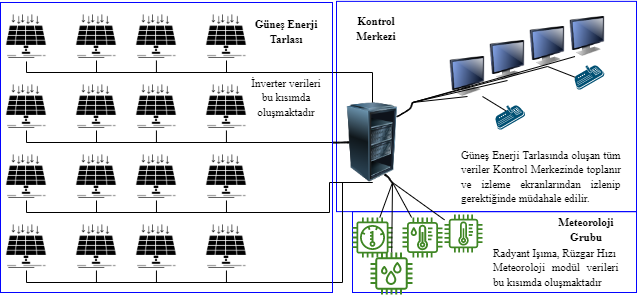
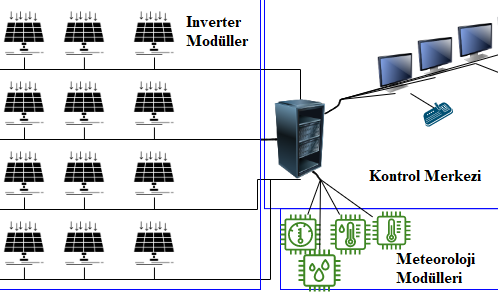
grafiklerin y koordinatlarını okunur bir biçimde düzenledim

diff --git a/MetinKisim/Bolum1.tex b/MetinKisim/Bolum1.tex
@@ -4,18 +4,20 @@
 \newpage
 \section{HABERLEŞME TEKNOLOJİLERINE GENEL BAKIŞ} \label{girisHaberlesme}
 \subsection{Power Line Communication, Güç Hattı Üzerinden Haberleşme}
-Güç Hattı Üzerinden Haberleşme (PLC), güç dağıtımı için kullnılan iletkenlerin aynı zamanda veri taşıma için de kullanılmasını amaçlayan bir haberleşme sistemidir. Güç hattına bağlanan modülatör ve demodülatör sayesinde enerjinin taşındığı hat üzerinden veri gönderimi sağlanmaktadır. Bu tekniği kullanımından kaynaklanan tek maliyet, fiziksel bağlantı olarak kullanılan sinyal aktarım ve sinyal tekrarlayıcı ekipmanlarıdır.
 
-\gls{plc} için ayrılan frekans bandgenişliği, 64 kb/s veya 4 kHz olarak tanımlanmıştır. Daha yüksek bir frekans kullanıldığında, \gls{plc} iletişimi daha küçük bir hat endüktansı gerektirecektir; dolayısıyla iletişim maliyeti azalacaktır. Bununla birlikte, daha yüksek frekans, iletişim aralığını sınırlayan daha yüksek sinyal zayıflamasına neden olacaktır. Pratikte maksimum mesafeler birkaç yüz kilometredir. Daha uzun mesafeli iletişim gerekli olduğunda, iletim sinyalini yükseltmek için \gls{plc} güçlendirme terminalleri kullanılmaktadır.
 
-Enerji dağıtım ağları üzerinden \gls{plc} kullanmanın ana dezavantajı, yer üstü hattan yeraltı hattına geçişten veya bunun tersi durumundan kaynaklanan empedans uyumsuzluğudur. Birden fazla geçiş olması durumunda, geçişlerden kaynaklanan empedans uyumsuzluklarının neden olduğu yansımalar iletişimin kalitesini olumsuz yönde etkileyecektir. Empedans uyumsuzluğun etkisini azaltmak için her geçişte ek ekipman kurulması gerekir. Bu nedenle, \gls{plc} uygulanmadan önce, enerji hattı geçişlerini belirlemek için enerji dağıtım ağının empedans uyum analizi yapılmalıdır\cite{duluau2015scada}.
+\gls{plc}, güç dağıtımı için kullanılan iletkenlerin aynı zamanda veri taşıma için kullanılmasını amaçlayan bir haberleşme sistemidir. Modülatör ve demodülatör kullanılarak, enerjinin taşındığı hat üzerinden veri gönderimi sağlanır. Bu tekniğin kullanımı için gerekecek tek maliyet, fiziksel bağlantı olarak kullanılan sinyal aktarım ve sinyal tekrarlayıcı ekipmanlarıdır.
+
+PLC için ayrılan frekans bant genişliği, 64 kb/s veya 4 kHz olarak tanımlanmıştır. Daha yüksek bir frekans kullanıldığında, \gls{plc} iletişimi daha küçük bir hat endüktansı gerektirecektir; dolayısıyla iletişim maliyeti azalacaktır. Bununla birlikte, daha yüksek frekans, iletişim aralığını sınırlayan daha yüksek sinyal zayıflamasına neden olacaktır. Pratikte maksimum mesafeler birkaç yüz kilometredir. Uzun mesafeli iletişim için, iletim sinyalini yükselten \gls{plc} güçlendirme terminalleri kullanılmaktadır.
+
+Enerji dağıtım ağları üzerinden \gls{plc}'nin en büyük problemi, yer üstü hattan yeraltı hattına geçişten veya bunun tersi durumundan kaynaklanan empedans uyumsuzluğudur. Birden fazla geçiş olması durumunda, geçişlerden kaynaklanan uyumsuzluklarının neden olduğu yansımalar iletişim kalitesini olumsuz yönde etkiler. Empedans uyumsuzluğun etkisini azaltmak için her geçişte ek ekipman kurulması gerekir. Bu nedenle, \gls{plc} uygulanmadan önce, enerji hattı geçişlerini belirlemek için enerji dağıtım ağının empedans uyum analizi yapılmalıdır\cite{duluau2015scada}.
 \begin{comment}
 \subsection{Radyo Dalgası}
 Özellikle yenilenebilir enerji santrallerinin dağıtık kurulumundan kaynaklı, üre-tilen enerjinin merkeziyetçil kontrolü için bakır tel veya fiber optik kullanımı, kabloları döşemek ve güzergah için yapılacak altyapı işleri yüksek maliyetler gerektirmektedir. Radyo iletişimi kablolu haberleşme sistemlerinin getirmiş olduğu bant genişliğinin yerini almasa da radyo ağlarının güvenilirliği, performansı ve işletme maliyetleri son yıllarda önemli ölçüde artmıştır. Bu gelişmelerde kaynaklı olarak dağıtık enerji sistemlerinde tercih edilen bir haberleşme teknolojisidir\cite{bai2020radio}.
 \end{comment}
 
 \subsection{Mikrodalga Haberleşmesi} \label{mikrohaberlesme}
-1 GHz üzerindeki frekanslarda çalışan, yüksek kanal ve veri iletimi kapasitelerini sunan radyo sistemlerini ifade eder. Mikrodalga haberleşmesi, kablolu haberleşme tekno-lojilerine alternatif olarak kullanılan uzun mesafeli iletişim sistemlerinde yaygın olarak kullanılmaktadır. Parabolik antenler, onlarca kilometre uzaktaki başka bir antene ışın göndermek için kulelere montajlanabilir. Mikrodalga haberleşmesi sayesinde 200 Mbps veri hızına kadar bant genişliği sunar. Bununla birlikte, bir mikrodalga radyo üzerinden iletim kapasitesi, kullanılan radyo frekansı ile doğru, iletim mesafesiyle ters orantılır. Ek olarak, mikrodalga haberleşmesi için açık görüş hattı önemlidir. Uzun mesafeli iletişim durumunda, mikrodalga haberleşme sisteminin en yüksek maliyeti kule kurulumu olarak değerlendirilir\cite{misra2012radio}.
+1 GHz üzerindeki frekanslarda çalışan, yüksek kanal ve veri iletimi kapasitelerini sunan radyo sistemlerini ifade eder. Mikrodalga haberleşmesi, kablolu haberleşme tekno-lojilerine alternatif olarak kullanılan uzun mesafeli iletişim sistemlerinde yaygın olarak tercih edilmektedir. Parabolik antenler, onlarca kilometre uzaktaki başka bir antene ışın göndermek için kulelere montajlanabilir. Mikrodalga haberleşmesi sayesinde 200 Mbps veri hızına kadar bant genişliği sunar. Bununla birlikte, bir mikrodalga radyo üzerinden iletim kapasitesi, kullanılan radyo frekansı ile doğru, iletim mesafesiyle ters orantılır. Ek olarak, mikrodalga haberleşmesi için açık görüş hattı önemlidir. Uzun mesafeli iletişim durumunda, mikrodalga haberleşme sisteminin en yüksek maliyeti kule kurulumu olarak değerlendirilir\cite{misra2012radio}.
 
 \begin{comment}
 \subsection{Ultra Yüksek Frekans Haberleşmesi}

diff --git a/OnKisim/5Ozet.tex b/OnKisim/5Ozet.tex
@@ -17,13 +17,41 @@
 \vspace{.5 cm}
 \onehalfspacing
 
+
+Bilginin bir noktadan başka bir noktaya veya noktalara aktarımında haberleşme sistemi kullanılır. Böylece bilgiyi üreten yapı hakkında oluşabilecek arıza durumlarının önüne geçilebilen bir ikaz sistemi kurularak, ilgili yapının çalışmasında sürdürülebilirlik sağlanmış olur.
+
+Yenilenebilir enerji santralleri, dağıtık enerji sistemleri olarak değerlendirilir. Enerji verimleri, konvansiyonel enerji santrallerine göre düşük, arıza müdahalesinden kaynaklı maliyetleri fazladır. Yenilenebilir enerji santrallerine yapılacak yatırımın cazip olması için, enerji üretim maliyetini minimize edecek çözümlere ağırlık verilmesi gerekmektedir. Haberleşme sistemleri sayesinde, yenilenebilir enerji sistemlerindeki muhtemel arızalar için zamanında aksiyon alınarak, enerji üretim maliyetinin düşürülmesi sağlanır. 
+
+
+Bu yüksek lisans tezinde, dağıtık yenilenebilir enerji üretim sistemlerinin üretim maliyetlerini minimize edebilmek için; kolayca ölçeklenebilir, geleneksel haberleşme sistemlerine göre yatırım maliyeti düşük ve düşük gecikme değerleriyle sürekli olarak müdahale edilebilir bir yapıyı destekleyecek haberleşme ağları araştırılmıştır. \gls{iec} ve \gls{ieee} tarafından belirlenen haberleşme standartları incelenmiştir. Yenilenebilir enerji santralleri hakkında temel anlamda çalışma prensipleri incelenmiştir. Kütahya Dumlupınar Üniversitesi bünyesinde dağıtık yenilenebilir enerji sistemleri kurulması durumunda haberleşme ihtiyacının çözümü için ağ tasarımları yapılmıştır. Tasarlanan ağların haberleşme performansları, yatırım maliyetleri ve \gls{iec} ve \gls{ieee} tarafından belirlenen haberleşme standartlarına uyumluluğu değerlendirilmiştir. 
+
+
+\begin{comment}
+
+
 Dağıtık yenilenebilir enerji üretim sistemleri başlığında değerlendirilen rüzgar ve güneş enerji santrallerinin bir arıza durumunda oluşturdukları maliyetleri düşürmek ve üretilen enerjilerin verimlerini arttırmak için gerçek zamanlı olarak takiplerinin yapılması elzem bir durumdur. Yenilenebilir enerji santrallerinde kullanılan haberleşme sistemlerinin standartları \gls{iec} ve \gls{ieee} tarafından belirlenmiştir.
 Bu yüksek lisans tezinde ilgili standartlara bağlı kalarak \gls{dpu} bünyesinde dağıtık yenilenebilir enerji sistemleri kurulması durumunda gereken haberleşme ağı tasarımları yapılıp ve maliyetleri analizlenmiştir.
 
-\begin{comment}
-Bu yüksek lisans çalışmasında, dağıtık yenilenebilir enerji üretim sistemlerindeki sensör verilerinin merkezden gerçek zamanlı olarak incelenebilinmesi ve ilgili haberleşme standartlarının sağlandığı ağ
+
+Günümüzde, artan enerji ihtiyaçlarının karşılanması konusunda insanlar dünyaya daha az zarar vererek enerji üretme konusuna ağırlık verdiler. Bu sebeple ülkeler yenilenebilir enerji kaynaklarını, fosil kaynaklara tercih etmeye başlamışlardır.
+
+Yenilenebilir enerji santrallerinin doğası gereği dağıtık yapıda olmasından kaynaklı olarak bakım, onarım ve arıza müdahalelerinden kaynaklı maliyetleri fazladır. Yenilenebilir enerji kaynaklarından elde edilen enerjinin verimi henüz fosil yakıtlardan elde edilen enerji veriminden az olduğundan, enerji üretiminde yatırımsal anlamda maliyetlerin azaltıcı aksiyonların alınması elzemdir. Santraldeki yaşanması muhtemel arızaların önüne geçebilmek için santral içerisindeki donanımların faaliyetlerini gerçek zamanlı izlemek gerekmektedir. Bu sebeple haberleşme sistemlerinin yenilenebilir enerji santrallerindeki önemli büyüktür. 
+
+Tüm sektörlerde olduğu gibi enerji sektöründe de teknolojik gelişmeler yaşan-maktadır. Haberleşme sistemlerindeki teknolojik gelişmelerin enerji sistemlerine uyarlanması sonucunda bakım, onarım ve enerji verimi faaliyetlerinin oluşturacağı maliyetlerin düşürülmesi amaçlanarak bu tez hazırlanmıştır.
+
+
+
+
+
+
+
+
 
 \end{comment}
+
+
+
+
 
 \textbf{Anahtar Kelimeler: } Optik Haberleşme, Wimax, Wifi, Haberleşme Ağları, Eniyileme, Yenilenebilir Enerji 
 

diff --git a/MetinKisim/Bolum5.tex b/MetinKisim/Bolum5.tex
@@ -9,7 +9,7 @@
 \subsection{OPNET Yerel Ağ Tasarımı} \label{opnetges}
 
 \begin{figure}[htbp]
-\centerline{\includegraphics[width=\columnwidth]{Resim/PV-2.png}}
+\centerline{\includegraphics[width=12cm]{Resim/PV-2.png}}
 \caption{Güneş enerji sistemi haberleşme topolojisi}
 \label{fig:4-6}
 \end{figure}
@@ -22,18 +22,18 @@
 \paragraph{Güneş Enerji Sistemi \gls{lan} Tasarımı }
 
 \begin{figure}[htbp]
-\centerline{\includegraphics[width=\columnwidth]{Resim/Sekil4-7.jpg}}
+\centerline{\includegraphics[width=11cm]{Resim/Sekil4-7.jpg}}
 \caption{Altıntaş \gls{myo}'nun OPNET yazılımda tasarım topolojisi.}
 \label{fig:4-7}
 \end{figure}
 
-Bölüm \ref{opnetges}'deki ilgili tabloda güneş enerji sisteminde kullanılan algılayıcılara göre OPNET yazılımında oluşturulan ağın görseli Şekil \ref{fig:figure9}'dedir. İlgili ağ yapısının tasarımı için OPNET yazılımında seçilmiş Ethernet algılayıcı düğümünün detayı şekil \ref{fig:4-9}’da gösterilmiştir. Bölüm \ref{algilayicidugum}'de tanımlanan Ethernet düğüm modülü ile OPNET yazılımında düğüm modülü uyumluluk göstermektedir.
+Bölüm \ref{opnetges}'deki ilgili tabloda güneş enerji sisteminde kullanılan algılayıcılara göre OPNET yazılımında oluşturulan ağın görseli Şekil \ref{fig:figure9}'de, ethernet algılayıcı düğüm detayı şekil \ref{fig:4-9}’da gösterilmiştir. Bölüm \ref{algilayicidugum}'de tanımlanan Ethernet düğüm modülü ile OPNET yazılımında düğüm modülü uyumluluk göstermektedir.
 
 Yerel enerji üretim durumunu kontrol edebilmek için komuta kontrol merkezi ile enerji üretim sisteminin haberleşme gecikmesinin 1 saniyenin altında olması ve paket trafiğinin minimum gecikmeyle komuta merkezine aktarılması gerektiği \gls{iec} 61724 standardının temel kriteridir. Bu kritere göre tasarlanan topolojide gözlemlenen performans değerleri Şekil \ref{fig:4-10}--\ref{fig:4-12}’lerde paylaşılmıştır.
 
 
 \begin{figure}[htbp]
-\centerline{\includegraphics[width=10cm]{Resim/Sekil 4-8.png}}
+\centerline{\includegraphics[width=13cm]{Resim/mak2solar.png}}
 \caption{Kampüs ortamında kurulan örnek güneş enerji santralinin invertör dizi grubunun OPNET yazılımında tasarlanması.}
 \label{fig:4-8}
 \end{figure}
@@ -253,8 +253,13 @@ ylabel={Yüklenen Veri Boyutu (Byte/s)},
 xmode=normal, ymode=log, 
 grid = major,
 log ticks with fixed point,
-ytick={15004,14004,8000,11008,12010,2006,8006,12016,6004},
+ytick={14004,8000,11008,2006,6004},
+extra y ticks={15004,12016},
+extra y tick labels={15\textbf{,}000,12\textbf{,}000},
+extra y tick style={y tick label style={right, xshift=6.8cm}},
 transpose legend,
+%label style = {font=\tiny},
+ytick style = {font=\tiny},
 legend columns = 3,
 legend style = {font=\tiny,at={(1,0.3)}, anchor=east}
 ]

diff --git a/OnKisim/7Onsoz.tex b/OnKisim/7Onsoz.tex
@@ -1,10 +1,5 @@
 \chapter*{ÖNSÖZ}
 
 
-Günümüzde, artan enerji ihtiyaçlarının karşılanması konusunda insanlar dünyaya daha az zarar vererek enerji üretme konusuna ağırlık verdiler. Bu sebeple ülkeler yenilenebilir enerji kaynaklarını, fosil kaynaklara tercih etmeye başlamışlardır.
 
-Yenilenebilir enerji santrallerinin doğası gereği dağıtık yapıda olmasından kaynaklı olarak bakım, onarım ve arıza müdahalelerinden kaynaklı maliyetleri fazladır. Yenilenebilir enerji kaynaklarından elde edilen enerjinin verimi henüz fosil yakıtlardan elde edilen enerji veriminden az olduğundan, enerji üretiminde yatırımsal anlamda maliyetlerin azaltıcı aksiyonların alınması elzemdir. Santraldeki yaşanması muhtemel arızaların önüne geçebilmek için santral içerisindeki donanımların faaliyetlerini gerçek zamanlı izlemek gerekmektedir. Bu sebeple haberleşme sistemlerinin yenilenebilir enerji santrallerindeki önemli büyüktür. 
-
-Tüm sektörlerde olduğu gibi enerji sektöründe de teknolojik gelişmeler yaşan-maktadır. Haberleşme sistemlerindeki teknolojik gelişmelerin enerji sistemlerine uyarlanması sonucunda bakım, onarım ve enerji verimi faaliyetlerinin oluşturacağı maliyetlerin düşürülmesi amaçlanarak bu tez hazırlanmıştır.
-
-Bana daima cesaret veren, inancını ve desteğini hissettiren, araştırmalarıma yön verip değerli fikirleriyle yanımda olan sayın danışmanım Prof. Dr. Ahmet Altuncu'ya teşekkürlerimi sunarım.
+Yüksek lisans süresi boyunca tez danışmanlığımı üstlenerek, konu seçiminde ve çalışmalarımın yürütülmesinde beni her zaman destekleyen, akademik çalışmalarım ile birlikte iş yaşantımda değerli fikirleri ve görüşleriyle bana yol göstermiş hocam Prof. Dr. Ahmet ALTUNCU’ya, desteklerini esirgemeyen Kütahya Dumlupınar Üniversitesi Elektrik Elektronik Mühendisliği Bölümü’ndeki hocalarıma teşekkür ederim.

diff --git a/MetinKisim/Bolum2.tex b/MetinKisim/Bolum2.tex
@@ -76,7 +76,7 @@ Tablo \ref{tab:literatr}'de yenilenebilir enerji santrallerinde kullanılan habe
 
 Akıllı şebekelerdeki \gls{lan} ağları için \gls{wifi} teknolojisi kullanılması durumunda maliyet ve sürdürülebilir yapıda haberleşmenin mümkün olduğu belirtilmiştir \cite{5779257}.
 
-Polonya'da kurulu \gls{ges}'lere ait haberleşme altyapısının fizibilitesi ile ilgili çalışmada bulunulmuştur. Çalışmada, 4G teknolojisi uydu haberleşmeye göre daha az maliyete sahip olduğu belirtilmiştir \cite{TbarMartnez2021PositiveEO}.
+Polonya'da kurulu \gls{ges}'lere ait haberleşme altyapısının fizibilitesi ile ilgili yapılan bir araştırmada, 4G sistemlerin uydu haberleşme sistemlerine göre maliyet avantajı olduğu belirtilmiştir \cite{TbarMartnez2021PositiveEO}.
 
 
 Teknolojinin gelişmesiyle birlikte, daha verimli ve daha düşük bakım maliyetlerine sahip rüzgar türbinlerinin üretimi yapılmaktadır. Rüzgar türbinlerinin yönetildiği komuta kontrol merkezleri, elektrik talebine göre açılıp kapatılan rüzgar türbinlerini yönetmek ve kontrol etmekten sorumludur. İlgili makalede rüzgar türbinlerinin güç tüketimini kullanılabilirliğini ve türbin verimliliğini en üst düzeyde kontrolü için tasarlanan iletişim ağ mimarisinden bahsedilmiştir \cite{ahmed2014communication}.
@@ -239,7 +239,7 @@ Yapılan çalışmada dağıtık \gls{res} ve \gls{ges}'lerde tercih edilen gele
 
 
 \begin{figure}[htbp]
-\centerline{\includegraphics[width=8cm]{Resim/makaledonmez.jpg}}
+\centerline{\includegraphics[width=\columnwidth]{Resim/makaledonmez.jpg}}
 \caption{\gls{ges} haberleşme topolojisi (\protect\citeA{donmezdesign}) }
 \label{sekildonmezmakale}
 \end{figure}

diff --git a/main.tex b/main.tex
@@ -12,6 +12,14 @@
 \usepackage{multirow}
 \usepackage{booktabs}
 \usepackage{pgfplots}
+%pdf komple kararcak
+%\usepackage{xcolor}
+
+%\pagecolor[rgb]{0,0,0} %black
+
+%\color[rgb]{0.5,0.5,0.5} %grey
+%PDF komple kararcakkk
+
 %\usepackage{ragged2e}
 \pgfplotsset{compat=1.18} 
 %saçma ama olmasıı gerekiyor
